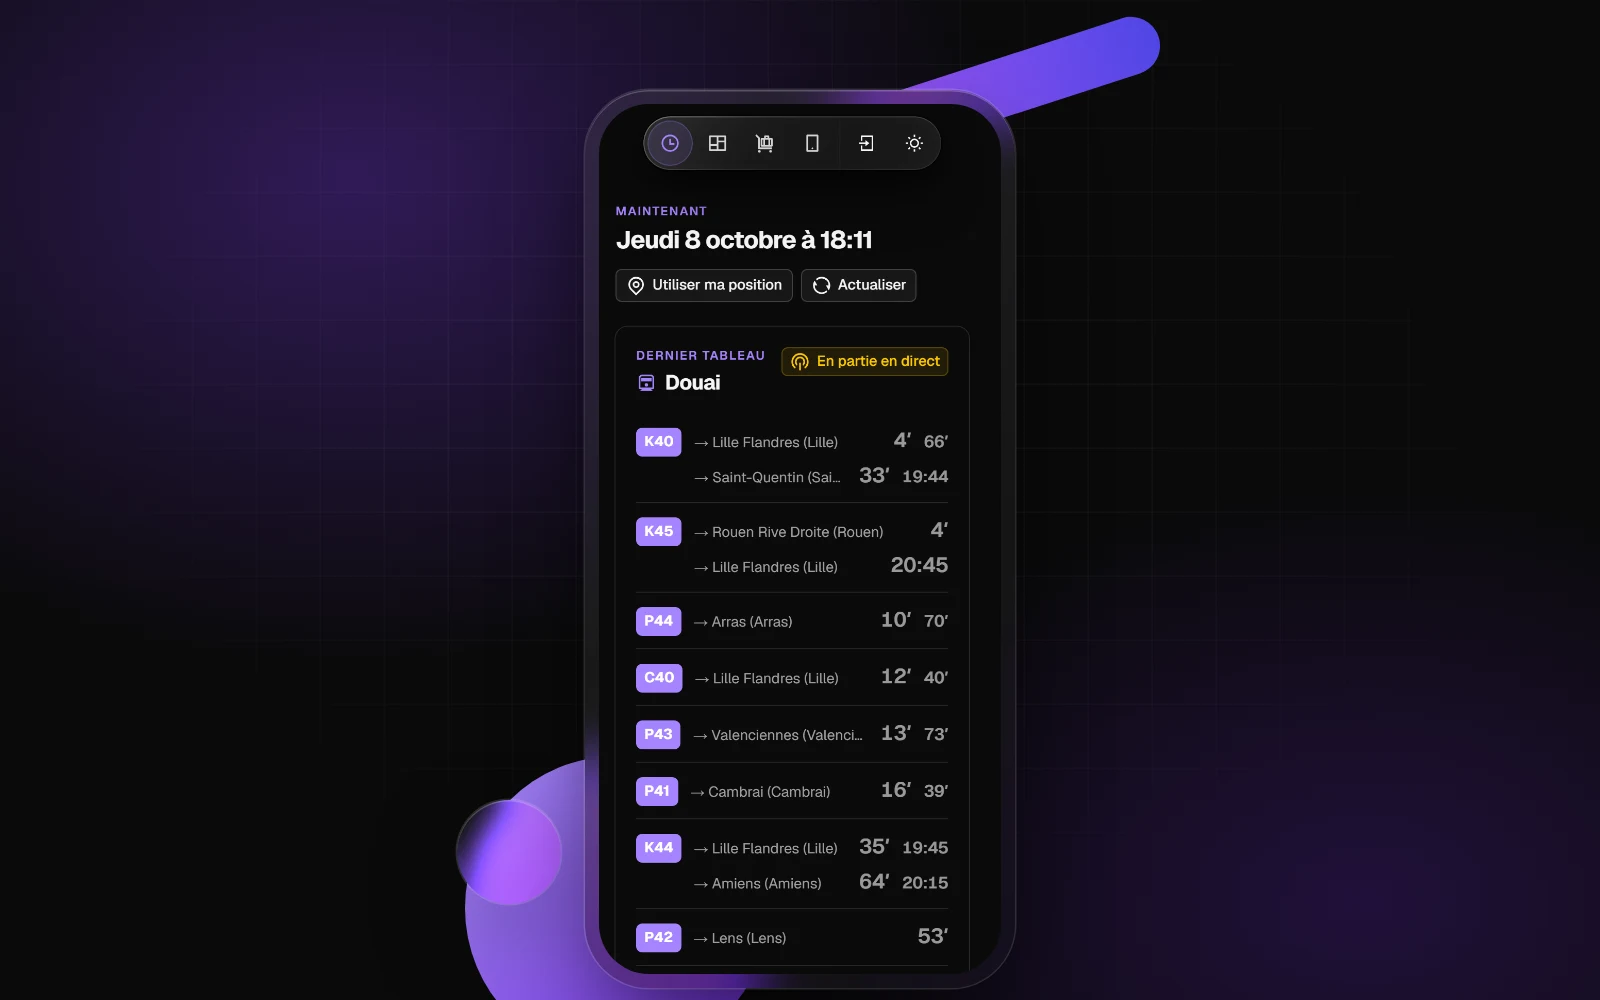
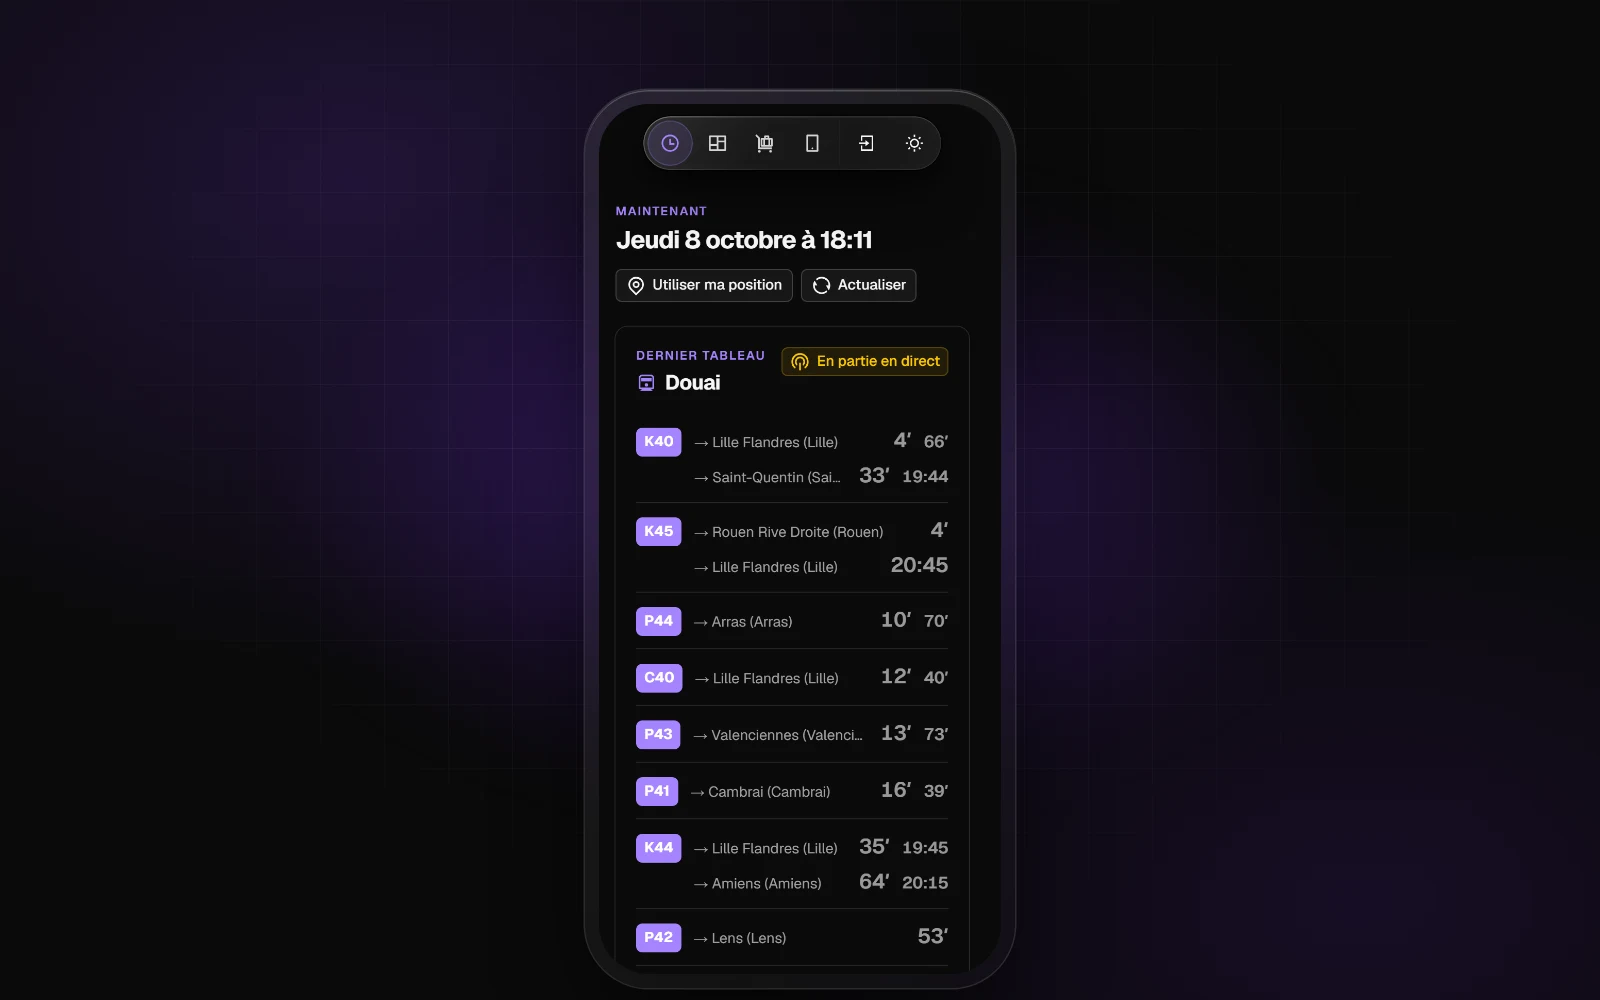
feat: shapes behind the project list, plain covers with a softer glow

diff --git a/scripts/cover-template.ts b/scripts/cover-template.ts
@@ -1,8 +1,8 @@
 /**
- * Shared template of the project covers, built like the site's hero: one glass
- * element (a window around a desktop capture, a phone around a mobile capture,
- * or an icon tile for the projects without an interface), two violet shapes
- * tucked behind its corners and a small glass lens over one of them.
+ * Shared template of the project covers: the site's dark violet light and one
+ * glass element over a soft violet glow, the same on every cover. The element
+ * is a window around a desktop capture, a phone around a mobile capture, or an
+ * icon tile with keywords for the projects without an interface.
  */
 import { createRequire } from 'node:module'
 import { pathToFileURL } from 'node:url'
@@ -20,25 +20,6 @@ export type CoverFrame =
   | { kind: 'window'; capture: URL; pixelated?: boolean }
   | { kind: 'phone'; capture: URL }
 
-/**
- * Four compositions, mirrored two by two. Offsets are relative to the glass
- * element and scaled by its size (`--k`), so every shape stays anchored to it.
- */
-const COMPOSITIONS = [
-  `<i class="shape disc" style="top: calc(-90px * var(--k)); right: calc(-150px * var(--k)); width: calc(380px * var(--k)); height: calc(380px * var(--k));"></i>
-   <i class="shape bar" style="bottom: calc(-36px * var(--k)); left: calc(-190px * var(--k)); width: calc(430px * var(--k)); height: calc(72px * var(--k)); rotate: -18deg;"></i>
-   <i class="lens glass" style="top: calc(105px * var(--k)); right: calc(-160px * var(--k)); width: calc(130px * var(--k)); height: calc(130px * var(--k));"></i>`,
-  `<i class="shape disc" style="bottom: calc(-90px * var(--k)); left: calc(-150px * var(--k)); width: calc(380px * var(--k)); height: calc(380px * var(--k));"></i>
-   <i class="shape bar" style="top: calc(-36px * var(--k)); right: calc(-190px * var(--k)); width: calc(430px * var(--k)); height: calc(72px * var(--k)); rotate: -18deg;"></i>
-   <i class="lens glass" style="bottom: calc(105px * var(--k)); left: calc(-160px * var(--k)); width: calc(130px * var(--k)); height: calc(130px * var(--k));"></i>`,
-  `<i class="shape dot" style="top: calc(-80px * var(--k)); left: calc(-110px * var(--k)); width: calc(230px * var(--k)); height: calc(230px * var(--k));"></i>
-   <i class="shape bar" style="bottom: calc(60px * var(--k)); right: calc(-250px * var(--k)); width: calc(520px * var(--k)); height: calc(80px * var(--k)); rotate: 24deg;"></i>
-   <i class="lens glass" style="bottom: calc(10px * var(--k)); right: calc(-150px * var(--k)); width: calc(230px * var(--k)); height: calc(70px * var(--k)); rotate: 24deg;"></i>`,
-  `<i class="shape dot" style="bottom: calc(-80px * var(--k)); right: calc(-110px * var(--k)); width: calc(230px * var(--k)); height: calc(230px * var(--k));"></i>
-   <i class="shape bar" style="top: calc(60px * var(--k)); left: calc(-250px * var(--k)); width: calc(520px * var(--k)); height: calc(80px * var(--k)); rotate: 24deg;"></i>
-   <i class="lens glass" style="top: calc(10px * var(--k)); left: calc(-150px * var(--k)); width: calc(230px * var(--k)); height: calc(70px * var(--k)); rotate: 24deg;"></i>`,
-]
-
 function fontUrl(path: string) {
   return pathToFileURL(require.resolve(path)).href
 }
@@ -49,23 +30,16 @@ function iconSvg(name: string) {
   return `<svg xmlns="http://www.w3.org/2000/svg" viewBox="0 0 24 24" fill="currentColor">${icon.body}</svg>`
 }
 
-function frameHtml(frame: CoverFrame, composition: string) {
-  const content =
-    frame.kind === 'icon'
-      ? iconSvg(frame.icon)
-      : `<img src="${frame.capture.href}" alt=""${frame.kind === 'window' && frame.pixelated ? ' class="pixelated"' : ''}>`
-  const stage = `<div class="stage stage--${frame.kind}">
-    ${composition}
-    <div class="frame frame--${frame.kind} glass">${content}</div>
-  </div>`
-  if (frame.kind !== 'icon') return stage
-  return `${stage}
+function frameHtml(frame: CoverFrame) {
+  if (frame.kind === 'icon') {
+    return `<div class="tile glass">${iconSvg(frame.icon)}</div>
   <div class="keywords">${frame.keywords.map((word) => `<span class="glass">${word}</span>`).join('')}</div>`
+  }
+  const image = `<img src="${frame.capture.href}" alt=""${frame.kind === 'window' && frame.pixelated ? ' class="pixelated"' : ''}>`
+  return `<div class="${frame.kind} glass">${image}</div>`
 }
 
-/** `variant` picks the composition; neighbouring projects get different ones. */
-export function coverHtml(frame: CoverFrame, variant: number) {
-  const composition = COMPOSITIONS[variant % COMPOSITIONS.length] ?? ''
+export function coverHtml(frame: CoverFrame) {
   const sans = fontUrl('@fontsource-variable/geist/files/geist-latin-wght-normal.woff2')
   const mono = fontUrl('@fontsource-variable/geist-mono/files/geist-mono-latin-wght-normal.woff2')
   return `<!doctype html>
@@ -87,8 +61,8 @@ export function coverHtml(frame: CoverFrame, variant: number) {
     position: absolute;
     inset: 0;
     background:
-      radial-gradient(60% 70% at 22% 18%, rgb(124 58 237 / 0.34), transparent 70%),
-      radial-gradient(55% 60% at 85% 90%, rgb(91 33 182 / 0.28), transparent 70%);
+      radial-gradient(60% 70% at 22% 18%, rgb(124 58 237 / 0.2), transparent 70%),
+      radial-gradient(55% 60% at 85% 90%, rgb(91 33 182 / 0.16), transparent 70%);
   }
   .grid {
     position: absolute;
@@ -99,7 +73,22 @@ export function coverHtml(frame: CoverFrame, variant: number) {
     background-size: 64px 64px;
     mask-image: radial-gradient(ellipse at 50% 40%, black 15%, transparent 72%);
   }
+  .glow {
+    position: absolute;
+    top: 130px;
+    left: 50%;
+    width: 560px;
+    height: 460px;
+    border-radius: 50%;
+    background: radial-gradient(closest-side, #8b5cf6, rgb(109 40 217 / 0.5), transparent);
+    filter: blur(40px);
+    opacity: 0.55;
+    translate: -50% 0;
+  }
+  .glow--window,
+  .glow--phone { top: 170px; width: 1100px; height: 640px; opacity: 0.4; }
   .glass {
+    position: absolute;
     background:
       linear-gradient(135deg, rgb(255 255 255 / 0.1), rgb(255 255 255 / 0.02)),
       rgb(10 10 10 / 0.5);
@@ -109,31 +98,18 @@ export function coverHtml(frame: CoverFrame, variant: number) {
       inset 0 1.5px 0 rgb(255 255 255 / 0.22),
       0 40px 100px -20px rgb(0 0 0 / 0.7);
   }
-  .stage { position: absolute; left: 50%; }
-  .stage--window { --k: 1; top: 50%; width: 1120px; transform: translate(-50%, -50%); }
-  .stage--phone { --k: 0.8; top: 90px; width: 430px; transform: translateX(-50%); }
-  .stage--icon { --k: 0.6; top: 50%; width: 300px; height: 300px; transform: translate(-50%, -62%); }
-  .shape, .lens { position: absolute; border-radius: 9999px; }
-  .disc { background: linear-gradient(135deg, #a78bfa, #6d28d9); }
-  .dot { background: linear-gradient(135deg, #c4b5fd, #8b5cf6); }
-  .bar { background: linear-gradient(90deg, #a855f7, #4f46e5); }
-  .lens { background: rgb(255 255 255 / 0.04); backdrop-filter: blur(14px) saturate(200%); }
-  .frame { position: relative; padding: 14px; }
-  .frame img { display: block; width: 100%; }
-  .frame--window { border-radius: 34px; }
-  .frame--window img { border-radius: 22px; }
-  .frame--phone { border-radius: 64px; }
-  .frame--phone img { border-radius: 50px; }
-  .frame--icon {
+  .tile {
+    top: 50%;
+    left: 50%;
     display: grid;
-    width: 100%;
-    height: 100%;
+    width: 300px;
+    height: 300px;
     place-items: center;
-    padding: 0;
     border-radius: 80px;
     color: #fff;
+    transform: translate(-50%, -62%);
   }
-  .frame--icon svg { width: 140px; height: 140px; }
+  .tile svg { width: 140px; height: 140px; }
   .keywords {
     position: absolute;
     right: 0;
@@ -144,17 +120,37 @@ export function coverHtml(frame: CoverFrame, variant: number) {
     gap: 16px;
   }
   .keywords span {
+    position: relative;
     padding: 12px 28px;
     border-radius: 999px;
     color: rgb(255 255 255 / 0.86);
     font: 500 28px "Geist Mono", monospace;
   }
+  .window {
+    top: 50%;
+    left: 50%;
+    width: 1120px;
+    padding: 14px;
+    border-radius: 34px;
+    transform: translate(-50%, -50%);
+  }
+  .window img { display: block; width: 100%; border-radius: 22px; }
+  .phone {
+    top: 90px;
+    left: 50%;
+    width: 430px;
+    padding: 14px;
+    border-radius: 64px;
+    transform: translateX(-50%);
+  }
+  .phone img { display: block; width: 100%; border-radius: 50px; }
   .pixelated { image-rendering: pixelated; }
 </style>
 <body>
   <div class="light"></div>
   <div class="grid"></div>
-  ${frameHtml(frame, composition)}
+  <div class="glow glow--${frame.kind}"></div>
+  ${frameHtml(frame)}
 </body>
 </html>`
 }

diff --git a/app/components/GlassShapes.vue b/app/components/GlassShapes.vue
@@ -1,7 +1,7 @@
 <script setup lang="ts">
 // Sharp violet shapes for a glass surface to refract: a blur needs edges to show.
 // The hero gets the full composition; elsewhere a single accent is enough.
-type Layout = 'hero' | 'page' | 'feature' | 'about' | 'grid' | 'card'
+type Layout = 'hero' | 'page' | 'list' | 'feature' | 'about' | 'grid' | 'card'
 
 const props = withDefaults(defineProps<{ layout?: Layout }>(), { layout: 'card' })
 
@@ -25,6 +25,12 @@ const layouts: Record<Layout, string[]> = {
     `${bar} wsm-float--slow right-[26%] top-16 hidden h-9 w-40 -rotate-[20deg] lg:block`,
     `${lens} wsm-float--slow right-2 top-10 size-14 lg:right-[13%] lg:top-28 lg:size-32`,
     `${lens} wsm-float--late right-[30%] top-24 hidden h-12 w-32 rotate-[8deg] lg:block`,
+  ],
+  // Behind a long list of glass cards: three accents spread along its height.
+  list: [
+    `${disc} -right-14 top-[6%] size-56`,
+    `${dot} wsm-float--late -left-10 top-[42%] size-24`,
+    `${bar} wsm-float--slow -right-20 top-[78%] hidden h-12 w-72 -rotate-[18deg] md:block`,
   ],
   feature: [
     `${disc} -right-6 -top-10 size-64 sm:size-72`,

diff --git a/scripts/covers.ts b/scripts/covers.ts
@@ -16,7 +16,6 @@ import { type CoverFrame, coverHtml, HEIGHT, WIDTH } from './cover-template'
 const OUTPUT_DIR = new URL('../public/images/projects/', import.meta.url)
 const CAPTURES = new URL('./captures/', import.meta.url)
 
-// In the order of the projects page, so that neighbours never share a composition.
 const covers: Array<{ id: string; frame: CoverFrame }> = [
   {
     id: 'dgfip-audit-tool',
@@ -57,10 +56,10 @@ const browser = await chromium.launch({
 })
 try {
   const page = await browser.newPage({ viewport: { width: WIDTH, height: HEIGHT } })
-  for (const [index, cover] of covers.entries()) {
+  for (const cover of covers) {
     if (requested.size > 0 && !requested.has(cover.id)) continue
     const html = join(workDir, `${cover.id}.html`)
-    await writeFile(html, coverHtml(cover.frame, index))
+    await writeFile(html, coverHtml(cover.frame))
     await page.goto(pathToFileURL(html).href, { waitUntil: 'load' })
     await page.evaluate(() => document.fonts.ready)
     const png = await page.screenshot({ type: 'png' })

diff --git a/app/pages/projects.vue b/app/pages/projects.vue
@@ -67,7 +67,8 @@ const visible = computed(() =>
         />
       </div>
 
-      <div class="space-y-6">
+      <div class="relative isolate space-y-6">
+        <GlassShapes layout="list" />
         <ProjectCard
           v-for="(project, index) in visible"
           :key="project.id"

diff --git a/CHANGELOG.md b/CHANGELOG.md
@@ -9,8 +9,8 @@ All notable changes to this project are documented here. The format follows [Kee
 - Liquid Glass across the site: violet shapes under glass lenses in the hero and the page headers, glass cards everywhere with a few violet accents behind them, a soft violet light on each section and a more visible grid at the top.
 - Cards share one hover: a short lift and a violet edge, without lightening the card.
 - Project filters sit in a glass selector; contact fields have a thin outline and a single violet focus ring.
-- Projects page: one project per row, image and text alternating sides.
-- New project covers built like the hero: a glass window around the product capture (Move in a phone frame) or an icon tile for the projects without a public interface, with two violet shapes tucked behind its corners and a glass lens; neighbouring projects never share a composition.
+- Projects page: one project per row, image and text alternating sides, with a few violet shapes behind the list.
+- New project covers in the site's style: a glass window around the product capture (Move in a phone frame), or an icon tile for the projects without a public interface, over the same violet glow.
 - Resume, legal notice and privacy pages follow the same design: violet light at the top, legal texts in a glass card.
 
 ### Fixed
